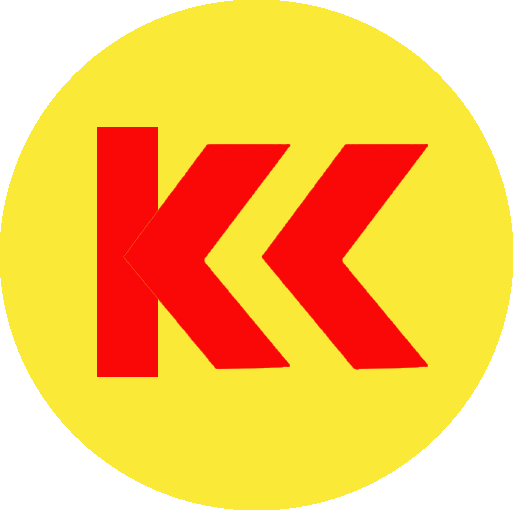
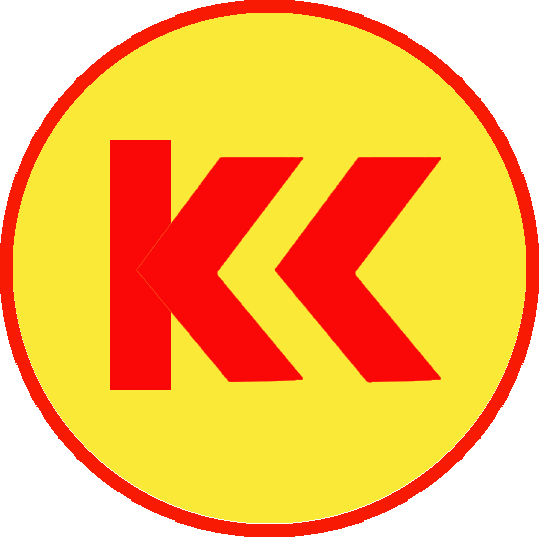
0.7.8 b
Improve icons of specials.

diff --git a/info/questions.js b/info/questions.js
@@ -105,7 +105,7 @@ questions = [
         }
     },
     {
-        "question": "为避免金钱政治、恶性竞争、拉帮结派等选举乱象，应当在政府的指导下进行选举。",
+        "question": "为避免金钱政治、恶性竞争、拉帮结派等选举乱象，应当在上级政府的指导下进行选举。",
         "effect": {
             "govt": -10
         }
@@ -613,7 +613,7 @@ questions = [
         }
     },
     {
-        "question": "个人自由主义和靠做题实现阶级上升破坏了小共同体，让人们陷入个人权利得不到保障的原子化个人的状态。",
+        "question": "个人主义思想的流行让社会陷入原子化（指由于人类社会最重要的社会联结机制中间组织[intermediate group]的解体或缺失而产生的个体孤独、无序互动状态）的危机。",
         "effect": {
             "shequn": 10
         }
